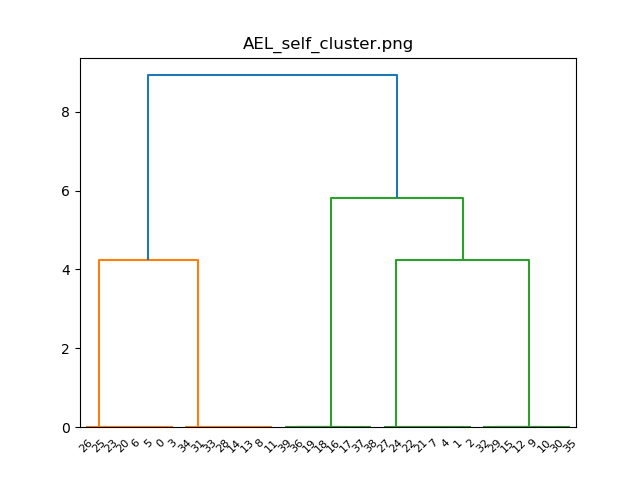
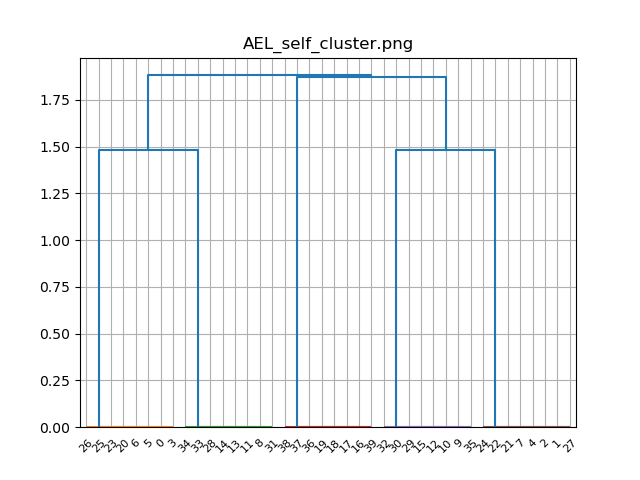
rename 'test1,2.py'file

Changed region(s): [[0.0625, 0.125, 0.9062, 0.9375], [0.0625, 0.1875, 0.2188, 0.25], [0.0625, 0.875, 0.125, 0.9062]]

diff --git a/clustering.py b/clustering.py
@@ -33,12 +33,14 @@ def make_self_clusering(dir,csvn='sort_self_distanc.csv',pngn='cluster.png',meth
     os.chdir(dir)
     selfcsv=glob.glob('*self_distance.csv')[0]
     matrixdf=make_sort_distance(selfcsv,csvn)
-    result1 = linkage(squareform(matrixdf), method = method)
-    dendrogram(result1,labels=matrixdf.index.to_list())
+    result= linkage(squareform(matrixdf), method = method)
+    dendrogram(result,labels=matrixdf.index.to_list())
+    plt.grid()
     plt.title(pngn)
     plt.savefig(pngn)
     plt.close()
     os.chdir(cwd)
+    return result
 
 
 import subprocess
@@ -48,5 +50,11 @@ del cifdir[0]
 import re
 for i in cifdir:
     cifid=re.split('/',i)[-1]
+    if cifid!='AEL':
+        continue
     print(cifid)
-    make_self_clusering(i,csvn='{}_sort_self_distanc.csv'.format(cifid),pngn='{}_self_cluster.png'.format(cifid))
+    sadress=copy.deepcopy(i)
+    scifid=copy.deepcopy(cifid)
+result=make_self_clusering(sadress,csvn='{}_sort_self_distanc.csv'.format(scifid),pngn='t_{}_self_cluster.png'.format(scifid))
+from scipy.cluster.hierarchy import fcluster
+#print(fcluster(result))

diff --git a/linkagetest.py b/linkagetest.py
@@ -1,0 +1,10 @@
+import pandas as pd
+import numpy as np
+from scipy.cluster.hierarchy import dendrogram, linkage, fcluster
+df = pd.DataFrame(np.random.rand(16*21).reshape(21,16))
+Z = linkage(df,method='ward',metric='euclidean')
+t = 0.7*max(Z[:,2])
+print(t)
+#c = fcluster(Z, t, criterion='distance')
+# t:クラスタリングするユーグリッド距離の基準
+# この場合、ユークリッド距離の最も離れている一番上の水平線の70%の位置をクラスタリングの基準とする
